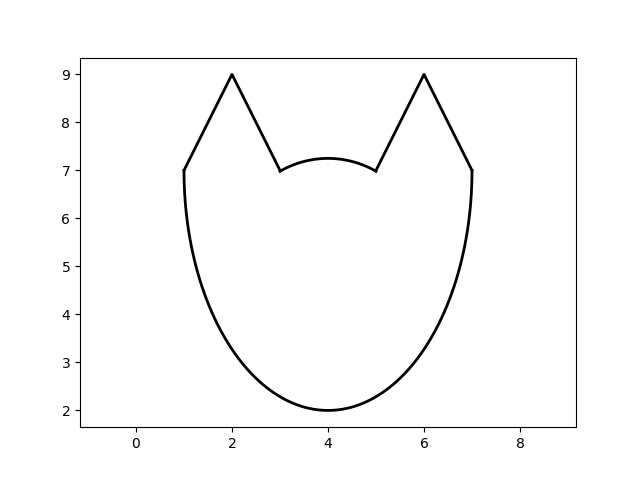
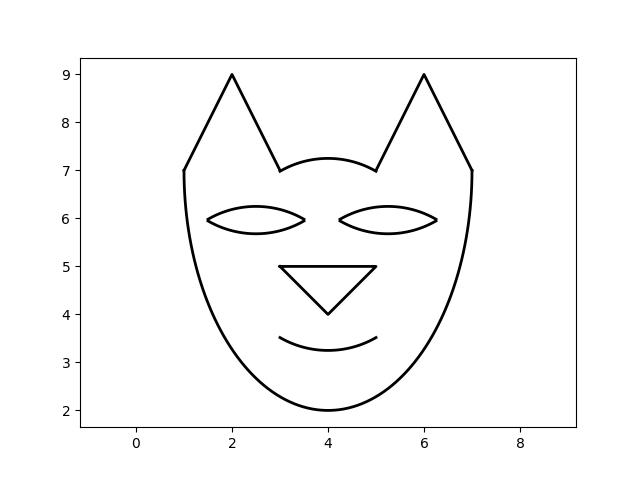
21312323

diff --git a/aproximation.py b/aproximation.py
@@ -11,9 +11,7 @@ ax.plot(x, y, '-', lw=2, color='k')
 t = np.linspace(np.pi/2+np.pi/6 , np.pi/2-np.pi/6, 100)
 x = 4 + 2 * np.cos(t)
 y = 5.25 + 2 * np.sin(t)
-
 ax.plot(x, y, '-', lw=2, color='k')
-
 
 x = [5, 6, 7]
 y = [7, 9, 7]
@@ -22,6 +20,36 @@ ax.plot(x, y, '-', lw=2, color='k')
 t = np.linspace(np.pi*2 , np.pi, 100)
 x = 4 + 3 * np.cos(t)
 y = 7 + 5 * np.sin(t)
+ax.plot(x, y, '-', lw=2, color='k')
+
+#glaz1
+t = np.linspace(np.pi/3 , np.pi*2/3, 100)
+x = 2.5 + 2 * np.cos(t)
+y = 4.25 + 2 * np.sin(t)
+ax.plot(x, y, '-', lw=2, color='k')
+t = np.linspace(-np.pi*2/3 , -np.pi/3, 100)
+x = 2.5 + 2 * np.cos(t)
+y = 7.68 + 2 * np.sin(t)
+ax.plot(x, y, '-', lw=2, color='k')
+#glaz2
+t = np.linspace(np.pi/3 , np.pi*2/3, 100)
+x = 5.25 + 2 * np.cos(t)
+y = 4.25 + 2 * np.sin(t)
+ax.plot(x, y, '-', lw=2, color='k')
+t = np.linspace(-np.pi*2/3 , -np.pi/3, 100)
+x = 5.25 + 2 * np.cos(t)
+y = 7.68 + 2 * np.sin(t)
+ax.plot(x, y, '-', lw=2, color='k')
+
+#nose
+x = [3, 4, 5, 3]
+y = [5, 4, 5, 5]
+ax.plot(x, y, '-', lw=2, color='k')
+
+#mouth
+t = np.linspace(-(np.pi/2-np.pi/6) , -(np.pi/2+np.pi/6), 100)
+x = 4 + 2 * np.cos(t)
+y = 5.25 + 2 * np.sin(t)
 ax.plot(x, y, '-', lw=2, color='k')
 
 plt.axis('equal')
